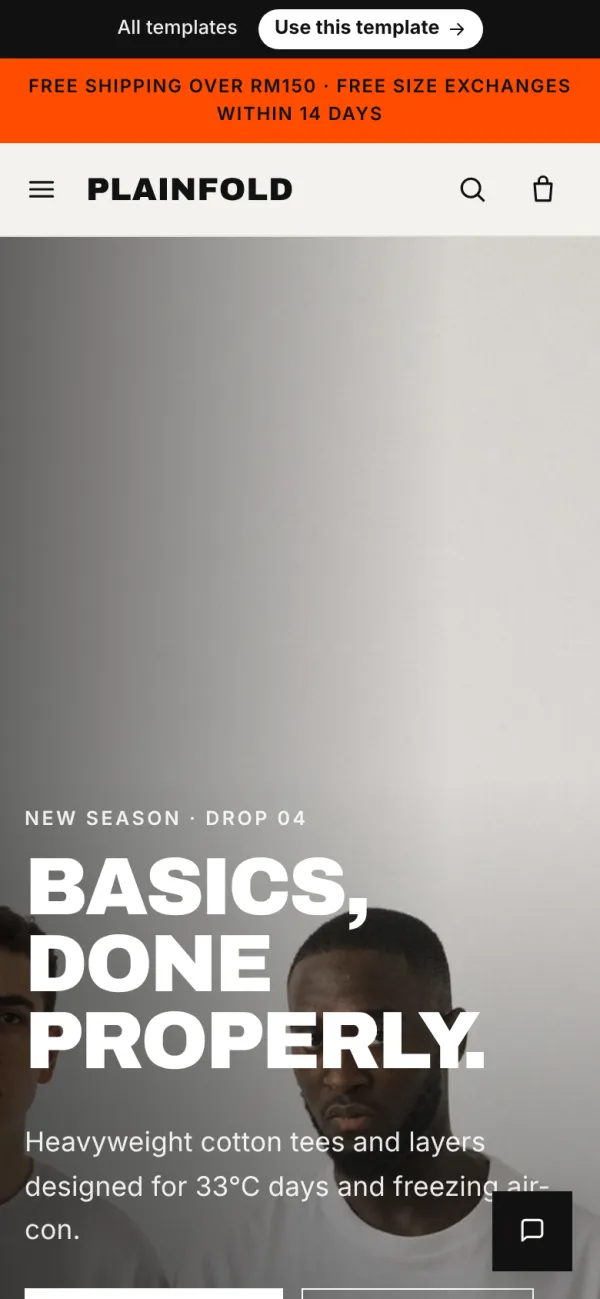
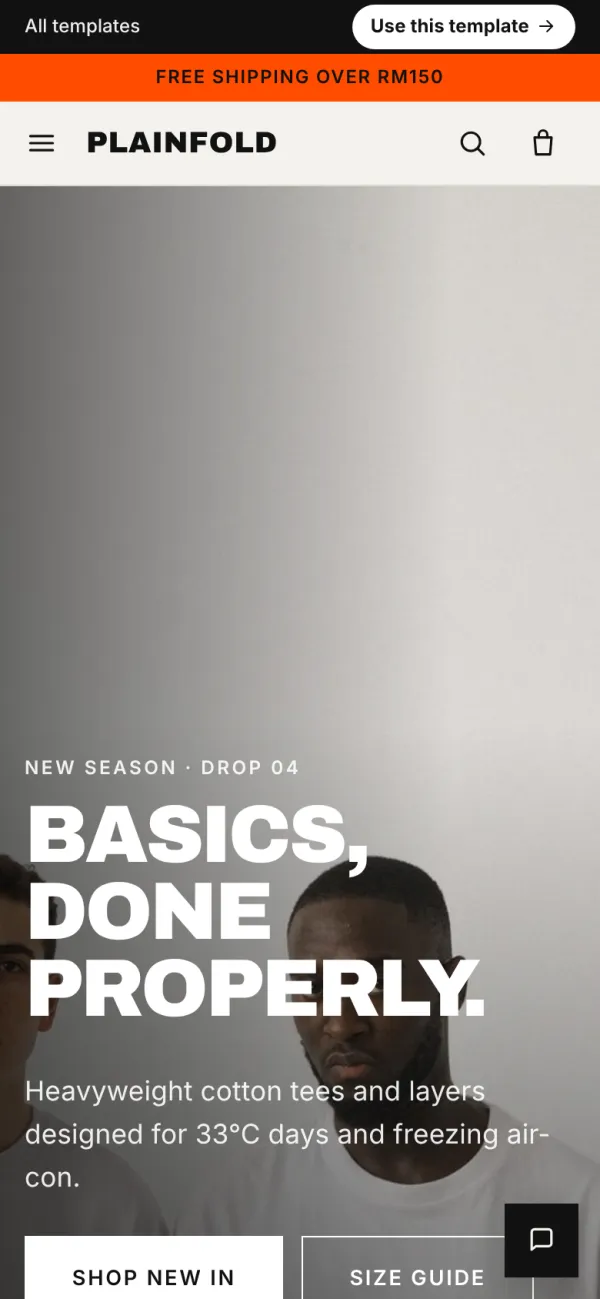
Shop templates: page-by-page review fixes on phone and desktop
- Dewlane: Water Gel photo was a jar of brown clay (same look as the clay
  mask); now a clear gel texture.
- Lowlight: two of three near-identical bean close-ups replaced (espresso
  shot, lighter beans in a pot); roast label moves under the meter.
- Tailmate: brand name in the dark footer was invisible.
- Top-bar messages shortened where phones cut them; no emoji.
- Voltnest specs only break between specs; size charts and the power bank
  comparison fit a phone; help page shipping table stacks on phones.
- fetch-stock-images.py keeps the other rows of image-sources.md.
- Template card screenshots retaken.

Claude-Session: https://claude.ai/code/session_01QtqzzS2ecbFuWQnXxvULB2

Changed region(s): [[0.0, 0.5851, 1.0, 1.0], [0.0, 0.0, 1.0, 0.1848]]

diff --git a/site/assets/css/store.css b/site/assets/css/store.css
@@ -191,6 +191,8 @@ p { margin: 0 0 1em; }
 .card__title a { text-decoration: none; }
 .card__title a:hover { text-decoration: underline; }
 .card__specs { font: 500 .78rem/1.3 ui-monospace, "JetBrains Mono", monospace; color: var(--muted); margin: 0 0 6px; }
+.card__specs span { white-space: nowrap; }
+.card__specs .card__sep { white-space: normal; }
 .card__notes { font-size: .82rem; color: var(--muted); margin: 0 0 6px; }
 .card__swatches { display: flex; gap: 6px; margin: 2px 0 8px; }
 .dot { width: 14px; height: 14px; border-radius: 50%; background: var(--sw); box-shadow: inset 0 0 0 1px rgba(0,0,0,.18); }
@@ -280,6 +282,7 @@ p { margin: 0 0 1em; }
 .tbl thead th { font-size: .78rem; text-transform: uppercase; letter-spacing: .08em; color: var(--muted); font-weight: 600; background: var(--soft); }
 .tbl tbody tr:last-child > * { border-bottom: 0; }
 .tbl tbody th { font-weight: 600; }
+.tbl .nw { white-space: nowrap; } /* short values ("30–40 cm", "10,000 mAh") never split */
 
 /* faq */
 .qas { border-top: 1px solid var(--line); }
@@ -307,7 +310,8 @@ p { margin: 0 0 1em; }
 .nl--lg .btn { min-height: 52px; }
 
 /* roast meter */
-.roast { display: flex; align-items: center; gap: 10px; font-size: .85rem; margin: 0 0 12px; }
+.roast { display: flex; flex-wrap: wrap; align-items: center; gap: 4px 10px; font-size: .85rem; margin: 0 0 12px; }
+.roast__name { white-space: nowrap; } /* "Light-medium" moves under the meter on narrow cards instead of breaking in two */
 .roast__label { color: var(--muted); text-transform: uppercase; letter-spacing: .1em; font-size: .72rem; }
 .roast__dots { display: inline-flex; gap: 4px; }
 .roast__dots i { width: 22px; height: 6px; border-radius: 3px; background: rgba(127,127,127,.25); }
@@ -538,7 +542,16 @@ p { margin: 0 0 1em; }
   .nl input { flex: none; width: 100%; } /* flex:1 in a column squashed the field to ~22px tall */
   .nl .btn { width: 100%; }
   .buy__row .qty { height: 52px; }
-  .tbl th, .tbl td { padding: 12px 14px; }
+  .tbl th, .tbl td { padding: 12px 10px; white-space: normal; } /* size charts and comparisons fit the phone instead of scrolling sideways */
+  .tbl th:first-child, .tbl td:first-child { padding-left: 14px; }
+  /* help page tables: one block per row on phones (a sideways-scrolling table hid the "free over RM150" part) */
+  .tbl--stack thead { display: none; }
+  .tbl--stack tr { display: block; padding: 12px 14px; border-bottom: 1px solid var(--line); }
+  .tbl--stack tbody tr:last-child { border-bottom: 0; }
+  .tbl.tbl--stack th, .tbl.tbl--stack td { display: block; padding: 0; border: 0; white-space: normal; }
+  .tbl--stack tbody th { margin-bottom: 4px; }
+  .tbl.tbl--stack td { display: grid; grid-template-columns: 7.5em 1fr; gap: 8px; padding: 2px 0; }
+  .tbl--stack td::before { content: attr(data-l); color: var(--muted); font-size: .85rem; }
   .gallery__thumbs { overflow-x: auto; }
   .thumb { width: 64px; height: 64px; flex: none; }
   .line { grid-template-columns: 64px 1fr auto; }

diff --git a/site/templates/tailmate/theme.css b/site/templates/tailmate/theme.css
@@ -11,6 +11,7 @@
 body { font-weight: 600; }
 .announce { font-weight: 800; }
 .logo__txt { font-weight: 700; font-size: 1.7rem; color: var(--fg); }
+.ftr .logo__txt { color: inherit; } /* the footer is dark: the dark brand name was invisible there */
 .hdr__nav a { font-weight: 800; }
 .btn { font-weight: 800; box-shadow: 0 4px 0 rgba(0,0,0,.12); }
 .btn:hover { transform: translateY(-2px); }

diff --git a/site/build.py b/site/build.py
@@ -167,7 +167,8 @@ class Store:
         url = f'{sp}p/{p["id"]}.html'
         extra = ""
         if p.get("specs_short"):
-            extra += f'<p class="card__specs">{e(p["specs_short"])}</p>'
+            # one span per spec, so a line only breaks between specs ("65 W" and "USB-C to C" stay whole)
+            extra += '<p class="card__specs">' + '<span class="card__sep">&nbsp;· </span>'.join(f'<span>{e(x)}</span>' for x in p["specs_short"].split(" · ")) + '</p>'
         if p.get("roast"):
             extra += self.roast_meter(p["roast"], small=True)
         if p.get("notes"):
@@ -476,7 +477,9 @@ if(h===window.__pvHash){try{localStorage.setItem('pv_'+h,'1');}catch(e){}documen
             return f'<section class="{cls}"><div class="wrap"><p class="statement">{e(s["text"])}</p>{by}</div></section>'
         if typ == "table":
             head = "".join(f"<th>{e(h)}</th>" for h in s["head"])
-            rows = "".join("<tr>" + "".join((f"<th scope=row>{e(c)}</th>" if j == 0 else f"<td>{e(c)}</td>") for j, c in enumerate(r)) + "</tr>" for r in s["rows"])
+            # a number stays with its unit when a phone wraps the cell ("30–40 cm", "10,000 mAh")
+            unit = lambda c: (f'<span class="nw">{e(c)}</span>' if len(c) <= 10 else re.sub(r"(\d) (cm|mm|kg|g|mAh|Wh|W|ml|m)\b", "\\1&nbsp;\\2", e(c)))
+            rows = "".join("<tr>" + "".join((f"<th scope=row>{unit(c)}</th>" if j == 0 else f"<td>{unit(c)}</td>") for j, c in enumerate(r)) + "</tr>" for r in s["rows"])
             note = f'<p class="muted small">{e(s["note"])}</p>' if s.get("note") else ""
             return f'<section class="{cls}"><div class="wrap">{self.sec_head(s, sp)}<div class="tbl-wrap"><table class="tbl"><thead><tr>{head}</tr></thead><tbody>{rows}</tbody></table></div>{note}</div></section>'
         if typ == "faq":
@@ -750,22 +753,22 @@ if(h===window.__pvHash){try{localStorage.setItem('pv_'+h,'1');}catch(e){}documen
         pk = self.pickup
         if pk and self.booking:
             sub, ship_h, ret_h = "Bookings and common questions.", "Bookings", "Changes &amp; refunds"
-            ship_sec = f"""<div class="tbl-wrap"><table class="tbl"><thead><tr><th>How</th><th>Where</th><th>Notes</th></tr></thead><tbody>
-    <tr><th scope="row">Dine-in</th><td>{e(pk['pickup'])}</td><td>{e(pk.get('pickup_note', ''))}</td></tr></tbody></table></div>
+            ship_sec = f"""<div class="tbl-wrap"><table class="tbl tbl--stack"><thead><tr><th>How</th><th>Where</th><th>Notes</th></tr></thead><tbody>
+    <tr><th scope="row">Dine-in</th><td data-l="Where">{e(pk['pickup'])}</td><td data-l="Notes">{e(pk.get('pickup_note', ''))}</td></tr></tbody></table></div>
   <p>Choose your date and preferred time at checkout.</p>"""
         elif pk:
-            drow = (f'<tr><th scope="row">Delivery</th><td>{e(pk["delivery"])}</td><td>Depends on distance, confirmed with you{(" · " + e(pk["delivery_note"])) if pk.get("delivery_note") else ""}</td></tr>'
+            drow = (f'<tr><th scope="row">Delivery</th><td data-l="Where">{e(pk["delivery"])}</td><td data-l="Fee">Depends on distance, confirmed with you{(" · " + e(pk["delivery_note"])) if pk.get("delivery_note") else ""}</td></tr>'
                     if pk.get("delivery") else "")
             sub, ship_h, ret_h = "Pick-up, delivery and common questions.", "Pick-up &amp; delivery", "Changes &amp; refunds"
-            ship_sec = f"""<div class="tbl-wrap"><table class="tbl"><thead><tr><th>How</th><th>Where</th><th>Fee</th></tr></thead><tbody>
-    <tr><th scope="row">Pick-up</th><td>{e(pk['pickup'])}</td><td>Free{(" · " + e(pk["pickup_note"])) if pk.get("pickup_note") else ""}</td></tr>
+            ship_sec = f"""<div class="tbl-wrap"><table class="tbl tbl--stack"><thead><tr><th>How</th><th>Where</th><th>Fee</th></tr></thead><tbody>
+    <tr><th scope="row">Pick-up</th><td data-l="Where">{e(pk['pickup'])}</td><td data-l="Fee">Free{(" · " + e(pk["pickup_note"])) if pk.get("pickup_note") else ""}</td></tr>
     {drow}</tbody></table></div>
   <p>Choose your pick-up or delivery date at checkout.</p>"""
         else:
             sub, ship_h, ret_h = "Shipping, returns and common questions.", "Shipping", "Returns &amp; exchanges"
-            ship_sec = f"""<div class="tbl-wrap"><table class="tbl"><thead><tr><th>Where</th><th>Fee</th><th>Delivery time</th></tr></thead><tbody>
-    <tr><th scope="row">West Malaysia</th><td>{rm(s['west'])} · free over {rm0(s['free_min'])}</td><td>2–4 working days</td></tr>
-    <tr><th scope="row">Sabah, Sarawak &amp; Labuan</th><td>{rm(s['east'])} · free over {rm0(s['free_min'])}</td><td>4–7 working days</td></tr></tbody></table></div>
+            ship_sec = f"""<div class="tbl-wrap"><table class="tbl tbl--stack"><thead><tr><th>Where</th><th>Fee</th><th>Delivery time</th></tr></thead><tbody>
+    <tr><th scope="row">West Malaysia</th><td data-l="Fee">{rm(s['west'])} · free over {rm0(s['free_min'])}</td><td data-l="Delivery time">2–4 working days</td></tr>
+    <tr><th scope="row">Sabah, Sarawak &amp; Labuan</th><td data-l="Fee">{rm(s['east'])} · free over {rm0(s['free_min'])}</td><td data-l="Delivery time">4–7 working days</td></tr></tbody></table></div>
   <p>Orders placed before 2pm on working days are packed the same day. You'll get a tracking number as soon as your parcel ships.</p>"""
         contact = e(self.pv["contact"]) if self.pv and self.pv.get("contact") else "Chat with us using the button at the bottom of the page, or message us on Instagram. We reply within one working day."
         return f"""<div class="wrap wrap--narrow help">

diff --git a/scripts/local/fetch-stock-images.py b/scripts/local/fetch-stock-images.py
@@ -70,7 +70,21 @@ def main():
         kb = os.path.getsize(out) // 1024
         print(f"  {img.get('dest', 'images')}/{img['file']:<28} pexels {pid:<10} {crop:<8} {kb} KB")
         rows.append(f"| {img.get('dest', 'images')}/{img['file']} | [Pexels {pid}](https://www.pexels.com/photo/{pid}/) | {img.get('note', '')} | Pexels License（免费商用，不需署名） |")
-    with open(os.path.join(site, "image-sources.md"), "w", encoding="utf-8") as fh:
+    md = os.path.join(site, "image-sources.md")
+    if os.path.exists(md):
+        # 2026-11-16: only replace the rows of the photos fetched this time; keep every other row (a one-photo
+        # stock.json used to wipe the whole list)
+        lines = open(md, encoding="utf-8").read().rstrip("\n").split("\n")
+        for r in rows:
+            key = r.split(" | ")[0] + " |"
+            hit = [i for i, ln in enumerate(lines) if ln.startswith(key)]
+            if hit:
+                lines[hit[0]] = r
+            else:
+                lines.append(r)
+        open(md, "w", encoding="utf-8").write("\n".join(lines) + "\n")
+        return
+    with open(md, "w", encoding="utf-8") as fh:
         fh.write("# 图片来源 Image sources\n\n")
         fh.write("> 查证日期 2026-11-07。Pexels License：免费、可商用、不需要署名；不可原样转售、不可暗示照片中的人或品牌代言。\n")
         fh.write("> 这些照片只用在**概念作品（样板站）**示范版面；客户正式网站一律用客户自己的产品照片。\n\n")

diff --git a/PROGRESS.md b/PROGRESS.md
@@ -116,6 +116,7 @@
 |---|---|---|---|---|
 | 2026-11-16 | 4.34 完善 4 个精品示范网站（俊宇：彻底、仔细地做好 4 大模版） | 44 页逐页在手机和电脑上看过。修好：Maison Cendre 包场页 4 个空间在手机上挤成 4 条窄栏（改成一张一张）、菜单 / 节日分页按钮换行（改成一行可滑）；Dulang & Daun 自己配礼盒的「− 0 +」变成直的（改回横的、大小一样）、产品页没选产品时显示「找不到」（改成显示招牌 Sambal Ikan Bilis）、礼篮照片罐子上的俄文标签（改成虚构品牌的标签，image-sources 有记录）；Butter & Lantern 店家后台订单在手机上挤成一字一行（改成上下排）、还写着「用 WooCommerce 后台」（改成我们自己的手机店家后台）、节日切换按钮换行（改成一行可滑）。新增：Sireh & Salt 桌上扫码点单（`table.html?t=5`，用跟真网店一样的程式和设计，首页加一块入口、店家视角加「Tables」分页：做好了 / 收到钱了 / 取消），工作室网站卡片和 AI 资料也写上。测试：`check-flagships` 200 项（新增 12 项）、4 个示范 44 页 × 4 种画面没有问题、时间测试 16 种没有问题 | `site/flagships/`、`site/build.py`（`layout: none` 整页、复制桌上点单程式）、`site/tools/check-flagships.js`、`wp/agency-core/assets/table/table.css`（桌号字大一点） | 6 个电商模板这次没动 |
 | 2026-11-16 | 4.35 桌上点单：厨房怎么知道、怎么结帐、晚上关柜台的记录（俊宇：table 5 下单后…close counter 完全没有记录，做成 The Baking Trip 后台那种） | agency-core 1.8.3：店家后台新画面「今日结算」（底部选单）：今天桌上收了多少、几张账单；按付款方式分（现金那一行提醒点钱箱）；每张账单（时间、桌子、单号、付款方式、金额）；卖了什么多少份；还没付的桌子红色提醒；取消的单、网店的单另外列；看前几天、导出 Excel、打印。一桌一次付的几张单算同一张账单。付款方式、日期、时间跟着后台的语言（中文 / 英文）。Sireh & Salt 示范加了真的店家后台 `dian.html`（厨房 → 桌子 → 今日结算，用示范桌上单的资料），客人页面「See the restaurant's side →」直接打开厨房。测试：本机 preview-tbt `check-table` 27 项、`check-owner` 48 项、`check-flagships` 204 项、Sireh & Salt 10 页 × 4 种画面没有问题 | `wp/agency-core/includes/class-table.php`（`_agc_bill`、`day()`）、`assets/owner/app.js` / `app.css`（`#/close`、`C.nav`、`C.start`）、`site/flagships/sireh-salt/dian-demo.js`、`pages/dian.html` | 服务器的小帮手 5 分钟内自动把 1.8.3 装到所有网站 |
+| 2026-11-16 | 4.36 逐页检查 6 个电商模板（俊宇：「这个我也要」） | 93 页在手机和电脑上逐页看过（首页、商店、每个产品页、购物袋、结账、订单完成、关于、帮助）。修好：Dewlane「Water Gel Moisturiser」的照片是一罐咖啡色的泥（跟 Clay Mask 一样），换成透明啫喱的照片；Lowlight 4 款咖啡有 3 款是几乎一样的咖啡豆特写，换了 2 张（意式浓缩、陶罐里的浅焙豆）；Tailmate 页尾的品牌名看不见（深色字在深色底）；顶部横幅 5 句在手机上被切掉（改短，Tailmate 去掉表情符号）；Voltnest 规格「65 / W」「USB-C to / C」断在中间（现在只在规格之间换行）、比较表和 Tailmate 尺码表在手机上要左右滑才看得到（现在一屏看完，数字和单位不分开）；Lowlight「Light-medium」在烘焙条旁边断成两行（现在整个移到下一行）；帮助页运费表在手机上看不到「满 RM150 免运」（改成一区一块）。照片都是 Pexels 免费商用、没有品牌字样，`image-sources.md` 和 `stock.json` 有记录；`fetch-stock-images.py` 以前只抓一张照片会把整份来源清单盖掉，现在只换那几行。测试：6 个模板 93 页 × 4 种画面没有问题、购物流程 72 项通过；工作室网站的模板截图重拍 | `site/templates/`、`site/assets/css/store.css`、`site/build.py`、`site/assets/shots/`、`scripts/local/fetch-stock-images.py` | — |
 | 2026-11-16 | 4.33 桌上点单页面第 2 版（俊宇：太简陋，彻底做好才发给店家）+ Secawan Tepung 报价回复 | 客人页面整个重做（agency-core 1.8.2）：跟店家网站同一套颜色、字体和标志；花园照片 + 桌号徽章；三步说明；人气推荐；跟店家网站一样的产品卡片；产品详情（选项卡片、备注、数量）；你的单；送出后的进度（已送出 → 准备中 → 做好了）；我的账单；英文 / 中文 / 马来文切换。本机：The Baking Trip 和一般网店各 25/25，手机 / 电脑 / 三种语言截图检查过，没有超出画面、没有程式错误。服务器 `ops/jobs/012-tbt-table-page-v2.sh`。Secawan Tepung 问「一般多少钱」：起草了三种价钱的回复（RM399 Raya 预购网店 / RM800 起 / 每月 RM169），并更正之前说的 RM199，放在工作台卡片 | `wp/agency-core/assets/table/`、`includes/class-table.php`、`sites/preview-tbt/skin/data.json`、`site/tools/check-table.js` | The Baking Trip 的跟进信息（工作台卡片上）等新页面上线后再发 |
 | 2026-11-15 | 4.32 店家后台一直卡在登录画面（俊宇） | 原因：18:30 预览网店的 basic auth（浏览器自己的「登录」框，要的是看网站的帐号）自动开回来，挡在店家后台前面，所以看不到店家后台漂亮的登录页，输入店家帐号也进不去。改法：网店照样要看网站的密码，但店家后台 `/dian/` 和桌上点单 `/table/` 不用先过浏览器的密码框（`scripts/lib/site.sh` 按原本的网址决定，`site-config.sh --open-app on`，服务器 `ops/jobs/011-tbt-dashboard-open.sh`）；另外修好店家后台「登出」（连结里的 `&amp;`，以前会出现「确定要登出吗？」，agency-core 1.8.1）。本机：首页 / 菜单 401、店家后台 200、桌上点单测试 25/25、登出回到店家后台登录页 | `scripts/lib/site.sh`、`scripts/server/site-config.sh`、`wp/agency-core/includes/class-owner-app.php` | 看网站的帐号密码没换 |
 | 2026-11-15 | 4.31 桌上扫码点单基本版（俊宇：用默认，开始做） | agency-core 1.8.0：客人扫桌上的 QR → 手机点单（选项、备注）→ 店家后台「厨房」画面（提示声、做好了）→ 客人手机显示做好了 → 「桌子」画面看每张桌子要付多少 →「收到钱了」（现金 / DuitNow / 刷卡 / 收银机）→ 已付款；可以取消一张单（库存放回）；「打印桌上 QR」一桌一张。有店家设计的网店用它的菜单和照片，一般网店用上架产品；中文网店全中文。本机测试：The Baking Trip 25/25、Butter & Lantern（一般网店、中文、Patio 桌）25/25，`check-owner` 46/46、`check-skin` 24/24、`check-festive-wp` 21/21；印出来的 QR 解码后就是那张桌子的网址。服务器：`ops/jobs/010-tbt-table-qr.sh` 打开 The Baking Trip 的桌上点单（1-8 号桌）；报价单加了一项「桌上点单」 | `wp/agency-core/includes/class-table.php`、`assets/table/`、`assets/owner/`、`site/tools/check-table.js`、`sites/preview-tbt/` | 不接收银系统、不用打印机（决定第 40 项）；预览网址有 basic auth，客人扫码要输入看网站的密码；上线换域名后要重印 QR；桌子数目要问店家 |

diff --git a/site/templates/lowlight/image-sources.md b/site/templates/lowlight/image-sources.md
@@ -10,8 +10,8 @@
 | img/beans.jpg | [Pexels 13737042](https://www.pexels.com/photo/13737042/) | Band | Pexels License（免费商用，不需署名） |
 | img/house.webp | [Pexels 29795391](https://www.pexels.com/photo/29795391/) | House Blend | Pexels License（免费商用，不需署名） |
 | img/midnight.webp | [Pexels 10319208](https://www.pexels.com/photo/10319208/) | Midnight Dark Roast | Pexels License（免费商用，不需署名） |
-| img/highland.webp | [Pexels 15223891](https://www.pexels.com/photo/15223891/) | Highland Single Origin | Pexels License（免费商用，不需署名） |
-| img/espresso.webp | [Pexels 38412662](https://www.pexels.com/photo/38412662/) | Espresso Blend | Pexels License（免费商用，不需署名） |
+| img/highland.webp | [Pexels 942771](https://www.pexels.com/photo/942771/) | Highland Single Origin（2026-11-16 换：原来跟另外两款一样是咖啡豆特写，商店页面看起来重复） | Pexels License（免费商用，不需署名） |
+| img/espresso.webp | [Pexels 9050518](https://www.pexels.com/photo/9050518/) | Espresso Blend（2026-11-16 换：原来跟另外两款一样是咖啡豆特写，商店页面看起来重复） | Pexels License（免费商用，不需署名） |
 | img/kit.webp | [Pexels 8004598](https://www.pexels.com/photo/8004598/) | Pour-over Starter Kit | Pexels License（免费商用，不需署名） |
 | img/kit-2.webp | [Pexels 15672170](https://www.pexels.com/photo/15672170/) | Starter Kit 2 | Pexels License（免费商用，不需署名） |
 | img/kettle.webp | [Pexels 7623609](https://www.pexels.com/photo/7623609/) | Gooseneck Kettle | Pexels License（免费商用，不需署名） |

diff --git a/site/templates/dewlane/image-sources.md b/site/templates/dewlane/image-sources.md
@@ -14,7 +14,7 @@
 | img/serum.webp | [Pexels 35909808](https://www.pexels.com/photo/35909808/) | Dew Serum | Pexels License（免费商用，不需署名） |
 | img/serum-2.webp | [Pexels 8140898](https://www.pexels.com/photo/8140898/) | Dew Serum 2 | Pexels License（免费商用，不需署名） |
 | img/cream.webp | [Pexels 6690234](https://www.pexels.com/photo/6690234/) | Barrier Cream | Pexels License（免费商用，不需署名） |
-| img/gel.webp | [Pexels 7796160](https://www.pexels.com/photo/7796160/) | Water Gel | Pexels License（免费商用，不需署名） |
+| img/gel.webp | [Pexels 6387868](https://www.pexels.com/photo/6387868/) | Water Gel（2026-11-16 换：原来的 7796160 是一罐咖啡色的泥，看起来跟 Clay Mask 一样） | Pexels License（免费商用，不需署名） |
 | img/sun.webp | [Pexels 8533216](https://www.pexels.com/photo/8533216/) | Daily Sun Fluid | Pexels License（免费商用，不需署名） |
 | img/oil.webp | [Pexels 7796813](https://www.pexels.com/photo/7796813/) | Night Oil | Pexels License（免费商用，不需署名） |
 | img/mask.webp | [Pexels 6167443](https://www.pexels.com/photo/6167443/) | Clay Mask | Pexels License（免费商用，不需署名） |
